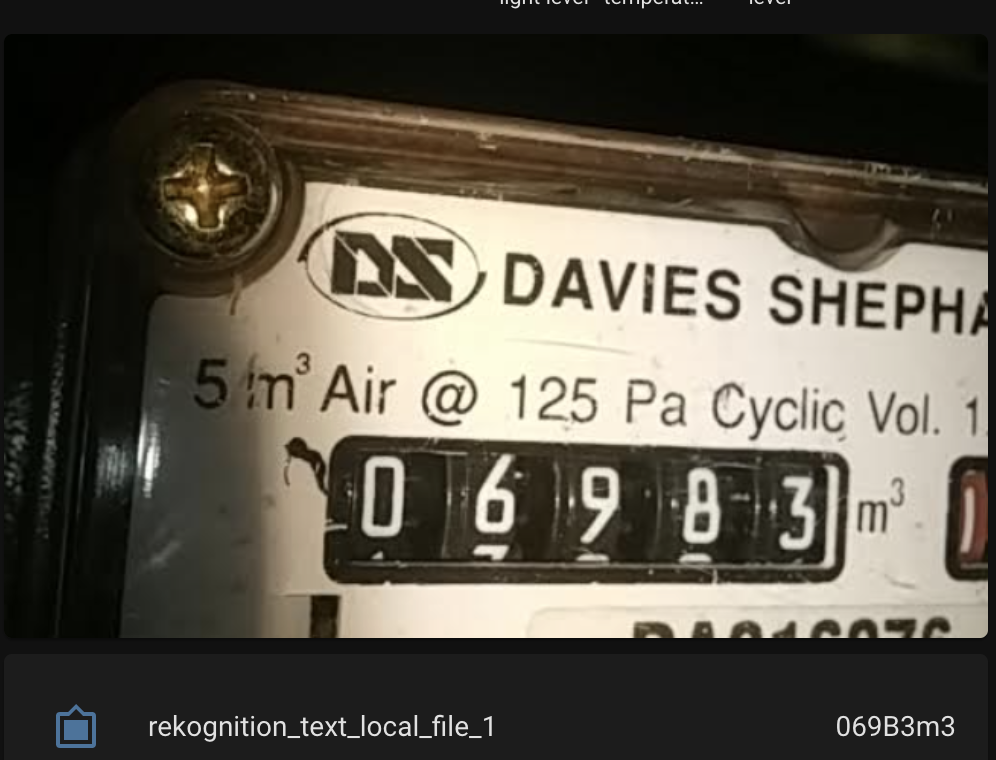
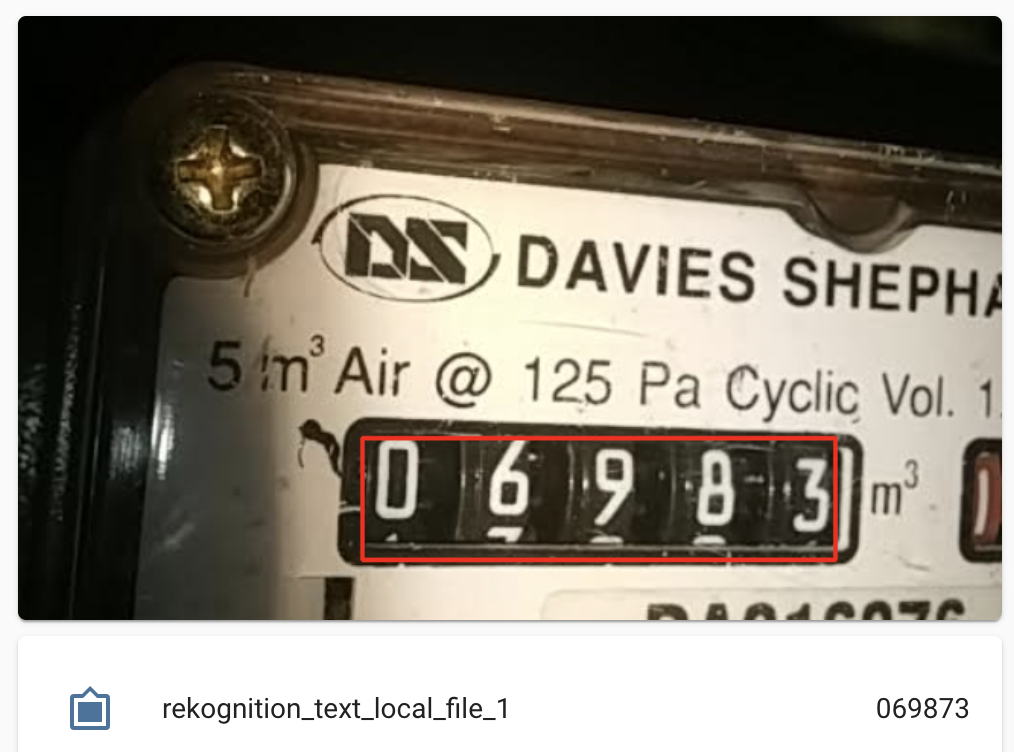
save image

diff --git a/custom_components/amazon_rekognition_text/image_processing.py b/custom_components/amazon_rekognition_text/image_processing.py
@@ -21,6 +21,7 @@ from homeassistant.components.image_processing import (
     ImageProcessingEntity,
 )
 from homeassistant.core import split_entity_id
+from homeassistant.util.pil import draw_box
 
 from homeassistant.const import ATTR_ENTITY_ID, ATTR_NAME
 
@@ -48,6 +49,8 @@ SUPPORTED_REGIONS = [
     "ap-south-1",
     "sa-east-1",
 ]
+
+RED = (255, 0, 0)
 
 REQUIREMENTS = ["boto3"]
 CONF_BOTO_RETRIES = "boto_retries"
@@ -205,7 +208,15 @@ class ObjectDetection(ImageProcessingEntity):
             self.save_image()
 
     def save_image(self):
-        # draw = ImageDraw.Draw(self._image)
+        draw = ImageDraw.Draw(self._image)
+        roi_tuple = (self._y_min, self._x_min, self._y_max, self._x_max)
+        draw_box(
+            draw,
+            roi_tuple,
+            self._image_width,
+            self._image_height,
+            color=RED,
+        )
 
         latest_save_path = (
             self._save_file_folder
